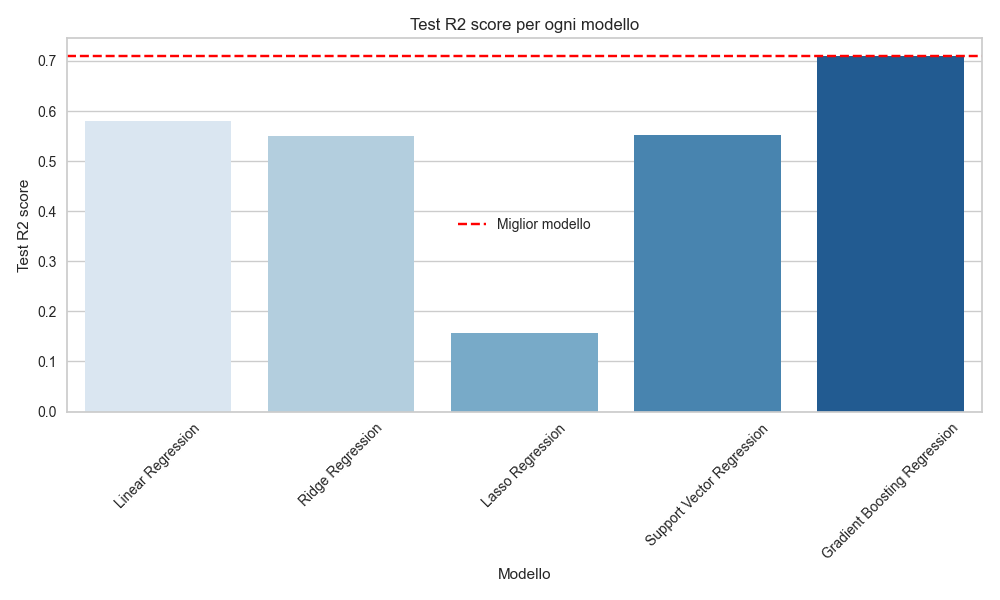
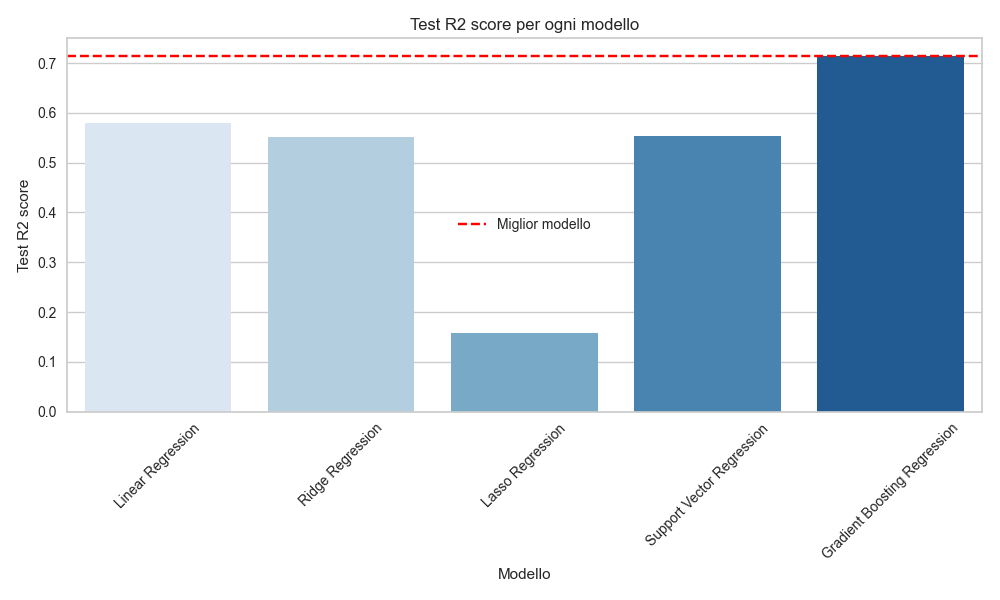
.

diff --git a/progetto2.0.py b/progetto2.0.py
@@ -1,153 +1,172 @@
-import numpy as np
 import pandas as pd
-from sklearn.ensemble import RandomForestRegressor
-from sklearn.feature_selection import SelectFromModel
+import numpy as np
 from sklearn.model_selection import train_test_split
 from sklearn.preprocessing import StandardScaler
+from sklearn.pipeline import Pipeline
+from sklearn.compose import ColumnTransformer
+from sklearn.impute import SimpleImputer
 from sklearn.linear_model import LinearRegression, Ridge, Lasso
-import tensorflow as tf
-from tensorflow.keras.models import Model
-from tensorflow.keras.layers import Input, Dense
+from sklearn.svm import SVR
+from sklearn.ensemble import GradientBoostingRegressor
+from sklearn.metrics import mean_absolute_error, mean_squared_error
 import matplotlib.pyplot as plt
+import seaborn as sns
+from yellowbrick.model_selection import LearningCurve
+import os
+import shutil
+import shap
 
-def load_and_preprocess_data(filepath):
-    data = pd.read_csv(filepath, delimiter=';')
-    if 'Turbidity' not in data.columns or 'Cloud' not in data.columns:
-        print("Warning: 'Turbidity' or 'Cloud' not found in the CSV file headers.")
-        return None, None, None, None, None
+# Crea la cartella img se non esiste e svuotala se esiste
+img_dir = 'img'
+if os.path.exists(img_dir):
+    shutil.rmtree(img_dir)
+os.makedirs(img_dir, exist_ok=True)
 
-    data = data[data['Cloud'] < 0.2]
+# Carica i dati dal file CSV
+data = pd.read_csv("dati.csv", delimiter=';')
+
+# Esplora e pulisci i dati
+# Gestione dei dati mancanti
+data.dropna(inplace=True)
+
+# Selezione di un campione di dati validi (senza copertura nuvolosa)
+data_valid = data[data['Cloud'] < 0.1]
+
+# Analisi della distribuzione dei valori nelle bande spettrali
+# e individuazione di eventuali outliers
+plt.figure(figsize=(12, 6))
+sns.boxplot(data=data_valid.drop(['Turbidity', 'Cloud'], axis=1))
+plt.title('Distribuzione delle bande spettrali')
+plt.xlabel('Bande spettrali')
+plt.ylabel('Valore')
+plt.savefig(os.path.join(img_dir, 'Distribuzione_delle_bande_spettrali.png'))
+plt.close()
+
+# Dividi i dati in set di addestramento e test
+X = data_valid.drop(['Turbidity', 'Cloud'], axis=1)  # Features
+y = data_valid['Turbidity']  # Target
+X_train, X_test, y_train, y_test = train_test_split(X, y, test_size=0.2, random_state=42)
+
+# Costruisci un pipeline per la gestione delle features
+numeric_features = X.select_dtypes(include=['int64', 'float64']).columns
+numeric_transformer = Pipeline(steps=[
+    ('imputer', SimpleImputer(strategy='median')),
+    ('scaler', StandardScaler())])
+
+preprocessor = ColumnTransformer(
+    transformers=[
+        ('num', numeric_transformer, numeric_features)])
+
+# Definisci i modelli
+models = {'Linear Regression': LinearRegression(),
+          'Ridge Regression': Ridge(),
+          'Lasso Regression': Lasso(),
+          'Support Vector Regression': SVR(),
+          'Gradient Boosting Regression': GradientBoostingRegressor()}
+
+# Addestra e valuta i modelli
+for name, model in models.items():
+    pipeline = Pipeline(steps=[('preprocessor', preprocessor),
+                               ('model', model)])
+    pipeline.fit(X_train, y_train)
+
+    print(f"\n{name}:")
+
+    # Calcola e visualizza la curva di apprendimento
+    plt.figure(figsize=(8, 6))
+    visualizer = LearningCurve(pipeline, scoring='r2')
+    visualizer.fit(X, y)
+    visualizer.show(outpath=os.path.join(img_dir, f'{name}_Learning_Curve.png'))
+    plt.close()
+
+    # Valutazione R2 score
+    print("Training R2 score:", pipeline.score(X_train, y_train))
+    print("Test R2 score:", pipeline.score(X_test, y_test))
+
+    # Valuta le prestazioni del modello
+    y_pred = pipeline.predict(X_test)
+    mae = mean_absolute_error(y_test, y_pred)  # Calcolo del MAE
+    mse = mean_squared_error(y_test, y_pred)   # Calcolo del MSE
+    print(f"Test MAE for {name}: {mae:.4f}")
+    print(f"Test MSE for {name}: {mse:.4f}")
+
+    # Visualizza previsioni rispetto ai valori effettivi
+    plt.figure(figsize=(8, 6))
+    plt.scatter(y_test, y_pred, color='blue')
+    plt.plot([min(y_test), max(y_test)], [min(y_test), max(y_test)], linestyle='--', color='red')
+    plt.title(f"{name} - Predicted vs Actual")
+    plt.xlabel("Actual")
+    plt.ylabel("Predicted")
+    plt.savefig(os.path.join(img_dir, f'{name}_Predicted_vs_Actual.png'))
+    plt.close()
+
+    # Visualizza l'importanza delle features (per modelli non lineari)
+    if name == 'Gradient Boosting Regression':
+        if hasattr(pipeline.named_steps['model'], 'feature_importances_'):
+            feature_importance = pipeline.named_steps['model'].feature_importances_
+            plt.figure(figsize=(10, 6))
+            sns.barplot(x=feature_importance, y=X.columns)
+            plt.title(f"{name} - Feature Importance")
+            plt.xlabel('Importance')
+            plt.ylabel('Features')
+            plt.savefig(os.path.join(img_dir, f'{name}_Feature_Importance.png'))
+            plt.close()
+
+    # Calcola i valori SHAP per SVR
+    if name == 'Support Vector Regression':
+        explainer = shap.KernelExplainer(pipeline.named_steps['model'].predict, X_train)
+        shap_values = explainer.shap_values(X_test, nsamples=100)
+        shap.summary_plot(shap_values, X_test, feature_names=X.columns)
+        # Assicurati di chiamare plt.gcf() prima di plt.savefig
+        plt.gcf()
+        plt.savefig(os.path.join(img_dir, f'{name}_Feature_Importance.png'))
+        plt.close()
+
+    # Visualizza i coefficienti (solo per modelli lineari)
+    if name in ['Linear Regression', 'Ridge Regression', 'Lasso Regression']:
+        if hasattr(pipeline.named_steps['model'], 'coef_'):
+            coef = pipeline.named_steps['model'].coef_
+            plt.figure(figsize=(10, 6))
+            sns.barplot(x=coef, y=X.columns)
+            plt.title(f"{name} - Coefficients")
+            plt.xlabel('Coefficient Value')
+            plt.ylabel('Features')
+            plt.savefig(os.path.join(img_dir, f'{name}_Coefficients.png'))
+            plt.close()
+
+# Calcola le metriche per ogni modello
+metrics = {}
+for name, model in models.items():
+    pipeline = Pipeline(steps=[('preprocessor', preprocessor),
+                               ('model', model)])
+    pipeline.fit(X_train, y_train)
     
-    X = data.drop(['Turbidity', 'Cloud'], axis=1).values
-    y = data['Turbidity'].values
+    # Calcola le metriche
+    train_r2 = pipeline.score(X_train, y_train)
+    test_r2 = pipeline.score(X_test, y_test)
+    y_pred = pipeline.predict(X_test)
+    mae = mean_absolute_error(y_test, y_pred)
+    mse = mean_squared_error(y_test, y_pred)
     
-    X_train, X_test, y_train, y_test = train_test_split(X, y, test_size=0.2, random_state=42)
-    
-    scaler = StandardScaler()
-    X_train = scaler.fit_transform(X_train)
-    X_test = scaler.transform(X_test)
-    
-    return X_train, X_test, y_train, y_test, data.columns.drop(['Turbidity', 'Cloud'])
+    # Salva le metriche
+    metrics[name] = {'Train R2': train_r2, 'Test R2': test_r2, 'MAE': mae, 'MSE': mse}
 
-def select_important_features(X_train, y_train, feature_names):
-    model = RandomForestRegressor(n_estimators=100, random_state=42)
-    model.fit(X_train, y_train)
+# Confronta le metriche per selezionare il miglior modello
+metrics_df = pd.DataFrame.from_dict(metrics, orient='index')
+best_model = metrics_df['Test R2'].idxmax()
 
-    importances = model.feature_importances_
-    indices = np.argsort(importances)[::-1]
-    
-    for i in range(len(feature_names)):
-        print(f'{i + 1}. feature {feature_names[indices[i]]} ({importances[indices[i]]})')
+# Visualizza il grafico del miglior modello
+plt.figure(figsize=(10, 6))
+sns.barplot(x=metrics_df.index, y='Test R2', data=metrics_df, palette='Blues')
+plt.title('Test R2 score per ogni modello')
+plt.xlabel('Modello')
+plt.ylabel('Test R2 score')
+plt.xticks(rotation=45)
+plt.axhline(y=metrics_df.loc[best_model, 'Test R2'], color='red', linestyle='--', label='Miglior modello')
+plt.legend()
+plt.tight_layout()
+plt.savefig(os.path.join(img_dir, 'Test_R2_score_per_ogni_modello.png'))
+plt.close()
 
-    sfm = SelectFromModel(model, threshold='mean')
-    sfm.fit(X_train, y_train)
-
-    selected_features = sfm.transform(X_train)
-    selected_indices = sfm.get_support(indices=True)
-    
-    print(f"Selected feature indices: {selected_indices}")
-    print(f"Number of features selected: {selected_features.shape[1]}")
-    
-    return selected_features, selected_indices
-
-def retry_with_selected_features(X_train, X_test, y_train, y_test, selected_indices):
-    print(f"Shape of X_train before selection: {X_train.shape}")
-    print(f"Shape of X_test before selection: {X_test.shape}")
-
-    selected_indices_in_embedded = [i for i in selected_indices if i < X_train.shape[1]]
-    if not selected_indices_in_embedded:
-        print("No valid indices in embedded space. Exiting.")
-        return None, None
-
-    X_train_selected = X_train[:, selected_indices_in_embedded]
-    X_test_selected = X_test[:, selected_indices_in_embedded]
-
-    print(f"Shape of X_train after selection: {X_train_selected.shape}")
-    print(f"Shape of X_test after selection: {X_test_selected.shape}")
-
-    models, results = try_regression_models(X_train_selected, y_train, X_test_selected, y_test)
-
-    return models, results
-
-def try_regression_models(X_train, y_train, X_test, y_test):
-    models = {
-        'Linear Regression': LinearRegression(),
-        'Ridge Regression': Ridge(),
-        'Lasso Regression': Lasso(),
-    }
-    
-    results = {}
-    for name, model in models.items():
-        model.fit(X_train, y_train)
-        y_pred = model.predict(X_test)
-        mse = np.mean((y_pred - y_test) ** 2)
-        results[name] = mse
-        print(f'{name}: MSE = {mse}')
-        
-    return models, results
-
-def evaluate_error(results):
-    for name, mse in results.items():
-        print(f'{name}: MSE = {mse}')
-
-def train_autoencoder(X_train, input_dim):
-    input_layer = Input(shape=(input_dim,))
-    encoded = Dense(64, activation='relu')(input_layer)
-    encoded = Dense(32, activation='relu')(encoded)
-    encoded = Dense(16, activation='relu')(encoded)
-    decoded = Dense(32, activation='relu')(encoded)
-    decoded = Dense(64, activation='relu')(decoded)
-    decoded = Dense(input_dim, activation='sigmoid')(decoded)
-
-    autoencoder = Model(input_layer, decoded)
-    autoencoder.compile(optimizer='adam', loss='mse')
-
-    history = autoencoder.fit(X_train, X_train, epochs=50, batch_size=32, validation_split=0.2)
-    
-    plt.plot(history.history['loss'], label='loss')
-    plt.plot(history.history['val_loss'], label='val_loss')
-    plt.legend()
-    plt.show()
-
-    encoder = Model(input_layer, encoded)
-    
-    return encoder
-
-def get_embeddings(encoder, X):
-    return encoder.predict(X)
-
-def main():
-    filepath = "dati.csv"
-    
-    # Carica e preelabora i dati
-    X_train, X_test, y_train, y_test, feature_names = load_and_preprocess_data(filepath)
-    
-    if X_train is None:
-        return
-    
-    # Seleziona le caratteristiche importanti
-    selected_features, selected_indices = select_important_features(X_train, y_train, feature_names)
-    
-    # Analizza le bande spettrali per identificare quelle importanti
-    important_bands = [feature_names[i] for i in selected_indices]
-    print("Bande spettrali importanti:", important_bands)
-    
-    # Riprova i modelli di regressione con le caratteristiche selezionate
-    models, results = retry_with_selected_features(X_train, X_test, y_train, y_test, selected_indices)
-    
-    # Valuta l'errore atteso
-    print("Valutazione dell'errore atteso:")
-    evaluate_error(results)
-    
-    # Addestra un autoencoder
-    input_dim = X_train.shape[1]
-    encoder = train_autoencoder(X_train, input_dim)
-    
-    # Ottieni le rappresentazioni codificate
-    encoded_train = get_embeddings(encoder, X_train)
-    encoded_test = get_embeddings(encoder, X_test)
-
-if __name__ == "__main__":
-    main()
-
-
+print(f"Il miglior modello per la previsione della torbidità è: {best_model}")
+print(f"Test R2 score del miglior modello: {metrics_df.loc[best_model, 'Test R2']}")
